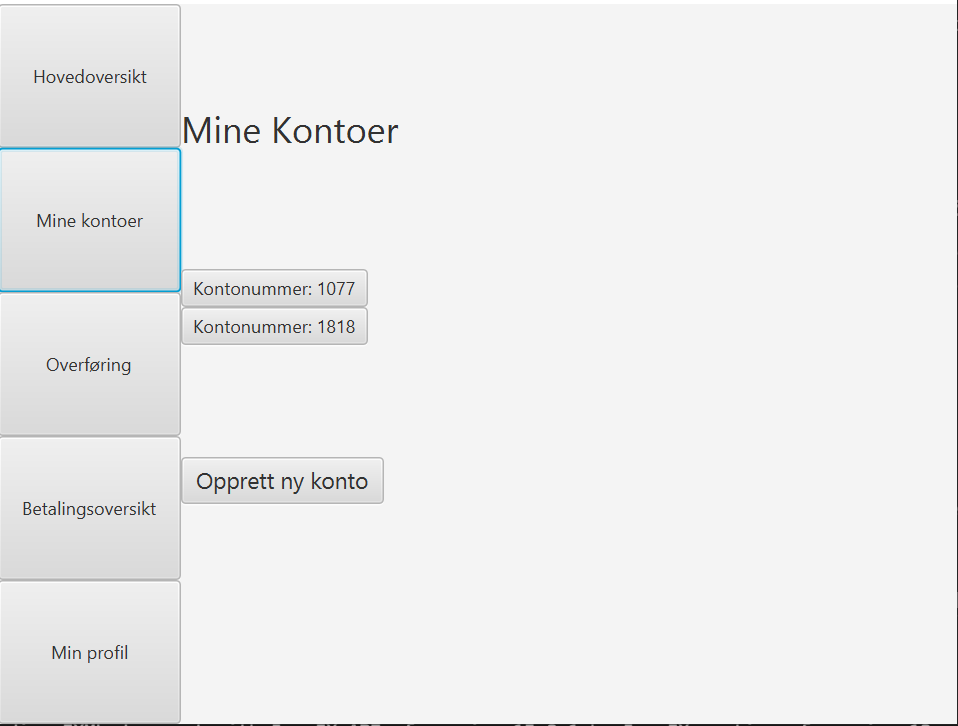
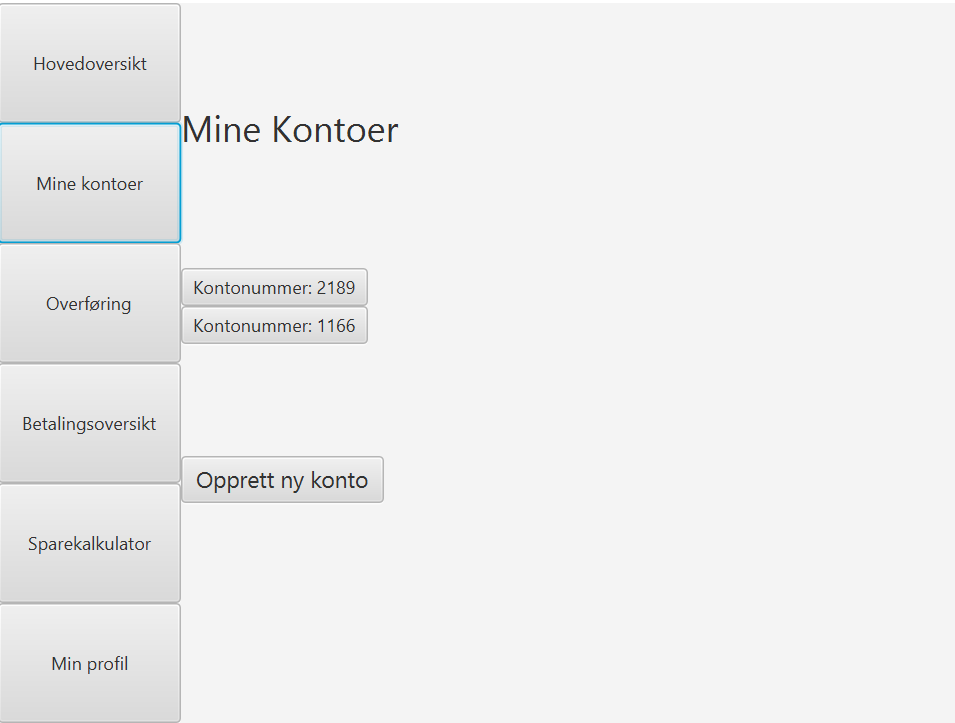
docs(#58): La til brukerhistorier og nyeste illustrasjoner

diff --git a/brukerhistorier/brukerhistorier.md b/brukerhistorier/brukerhistorier.md
@@ -68,4 +68,19 @@ Som en bankkunde ønsker jeg muligheten til å logge ut slik at uvedkommende ikk
 * Funksjonen/symbolet for å logge ut
 
 ### Illustrerende skjermbilde
-(kommer)
+<img src="Illustration-us4.png" width="400">
+
+
+## Sparekalkulator (#5) – middels prioritet
+Som en bankkunde ønsker jeg å se hvor mye sparepengene mine kan vokse over en viss tid.
+
+### Viktig å kunne gjøre
+* Fylle inn startbeløp og fast månedlig beløp
+* Sette spareperiode (i år)
+* Sette rente
+
+### Viktig å kunne se
+* Totalbeløp etter perioden (uten skatt)
+
+### Illustrerende skjermbilde
+<img src="Illustration-us5.png" width="400">
